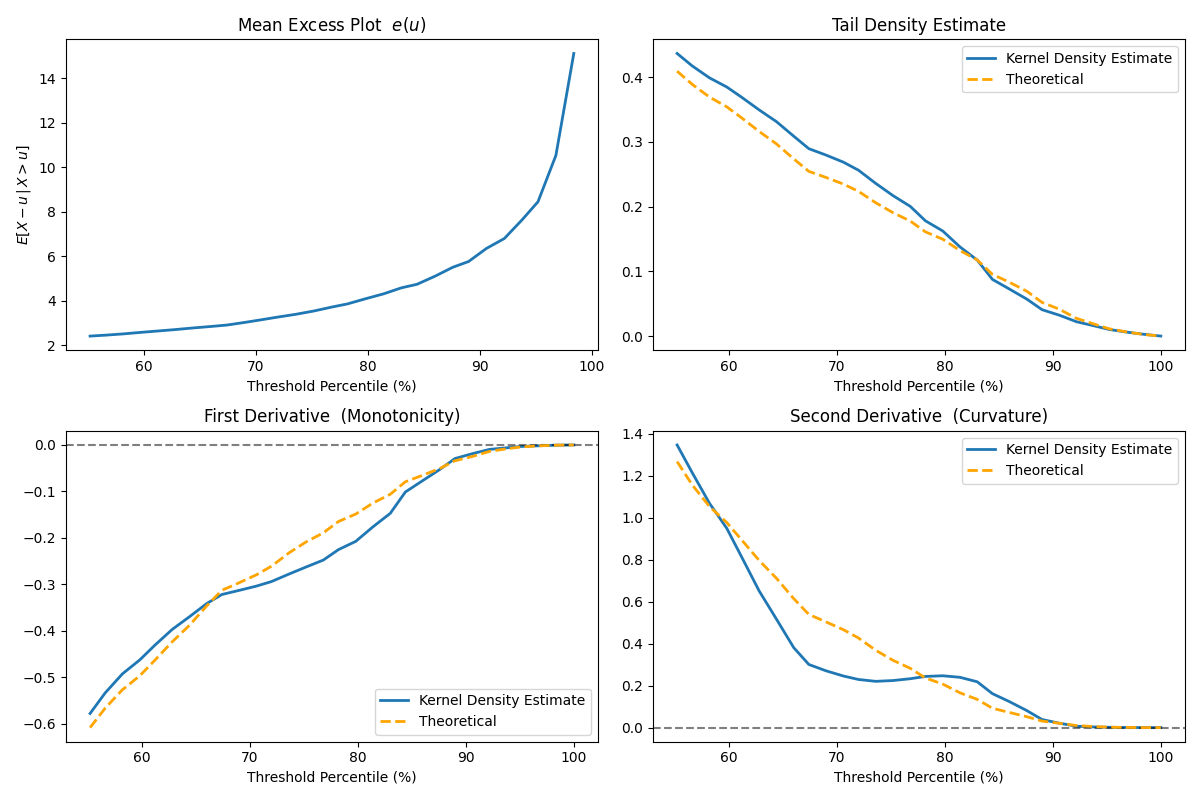
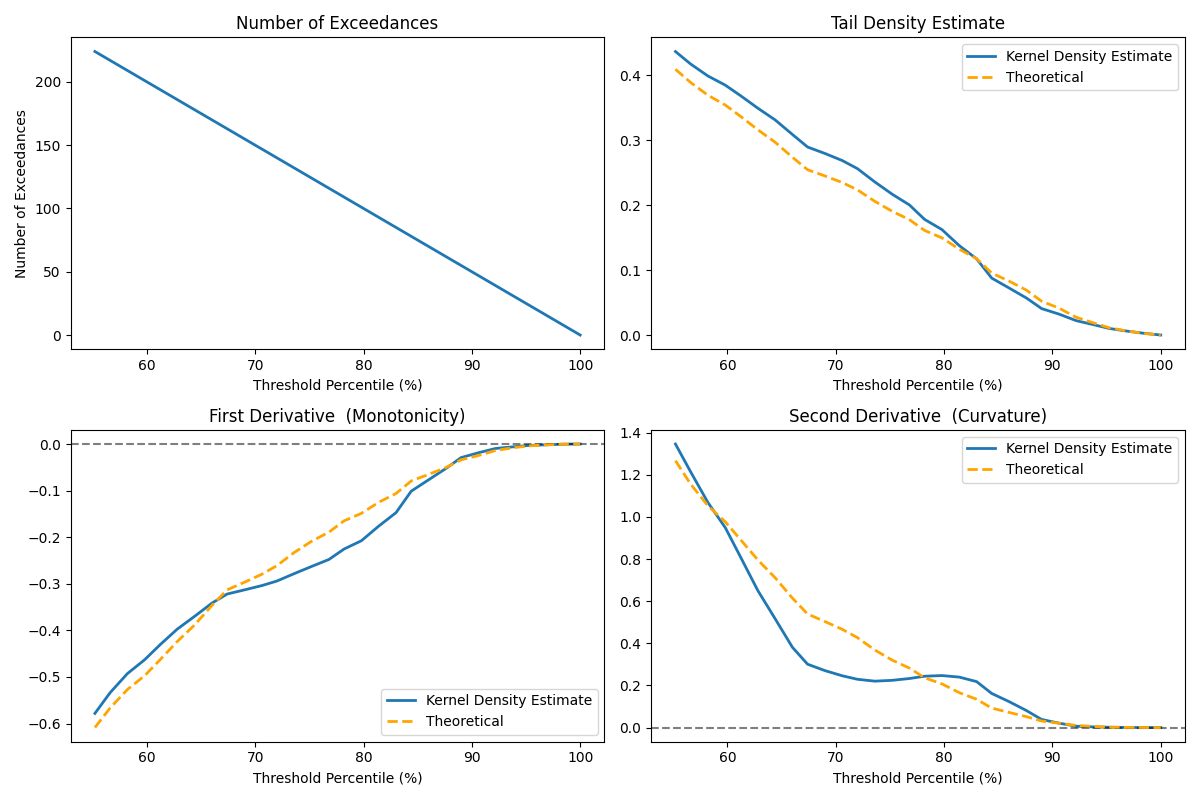
Update tail diagnostics. Add number of exceedance plots.

diff --git a/droevt/utils/tail_diagnostics.py b/droevt/utils/tail_diagnostics.py
@@ -26,10 +26,9 @@ qualitative features consistent with the modeling assumptions.
 
 In particular, the module implements:
 
-1. The *mean-excess function*
-   $e(u) = E[X - u | X > u]$
-   whose approximate linearity is a classical indicator of generalized
-   Pareto-type tail behavior.
+1. The *number of exceedances* above each candidate threshold, which helps
+   assess whether there are sufficient data points above the threshold for
+   reliable estimation and calibration.
 
 2. A *kernel density estimate* of the empirical tail, together with smoothed
    estimates of its
@@ -51,7 +50,7 @@ The user supplies:
 
 The diagnostics help identify the *smallest* threshold beyond which:
 
-    (i)  the mean-excess function becomes approximately linear
+    (i)  there are sufficient exceedances for reliable estimation
     (ii) the estimated density is smoothly decreasing
     (iii) the curvature stabilizes and no longer exhibits strong irregularity.
 
@@ -492,9 +491,8 @@ def plot_tail_diagnostics(
     dict
         Dictionary containing:
             - 'thresholds': candidate_thresholds,
-            - 'mean_excess': mean excess evaluated at thresholds,
+            - 'num_exceedances': number of exceedances at each threshold,
             - 'density': smoothed KDE density values,
-            - 'density_s': smoothed KDE density values,
             - 'first_derivative': smoothed first derivative of KDE,
             - 'second_derivative': smoothed second derivative of KDE.
     """
@@ -513,7 +511,8 @@ def plot_tail_diagnostics(
     indices = tail_start + np.array(indices)
 
     # ====== Compute objects ======
-    me_vals = mean_excess(x, candidate_thresholds)
+    # Compute number of exceedances for each threshold
+    num_exceedances = np.array([np.sum(x > threshold) for threshold in candidate_thresholds])
     _, density, first_derivative, second_derivative = tail_density_and_derivatives(x, candidate_thresholds)
 
     plot_theoretical_density = False
@@ -543,11 +542,11 @@ def plot_tail_diagnostics(
     fig, axs = plt.subplots(2, 2, figsize=(12, 8))
     ax_me, ax_pdf, ax_d1, ax_d2 = axs.flatten()
 
-    # --- 1. Mean Excess Plot ---
-    ax_me.plot(threshold_percentages, me_vals, lw=2)
-    ax_me.set_title("Mean Excess Plot  $e(u)$")
+    # --- 1. Number of Exceedances ---
+    ax_me.plot(threshold_percentages, num_exceedances, lw=2)
+    ax_me.set_title("Number of Exceedances")
     ax_me.set_xlabel("Threshold Percentile (%)")
-    ax_me.set_ylabel("$E[X-u \\,|\\,X>u]$")
+    ax_me.set_ylabel("Number of Exceedances")
 
     # --- 2. Tail Density ---
     ax_pdf.plot(threshold_percentages, density, lw=2, label="Kernel Density Estimate")
@@ -602,7 +601,7 @@ def plot_tail_diagnostics(
                "fig": fig,
                "thresholds": candidate_thresholds,
                "threshold_percentages": threshold_percentages,
-               "mean_excess": me_vals,
+               "num_exceedances": num_exceedances,
                "density": density,
                "first_derivative": first_derivative,
                "second_derivative": second_derivative,

diff --git a/tail_threshold_diagnostics.md b/tail_threshold_diagnostics.md
@@ -19,13 +19,15 @@ To address this transparently, we provide a set of diagnostic tools ([drovt.util
 
 Given a dataset $x_1,\dots,x_n$, the module evaluates a grid of candidate thresholds and computes the following quantities.
 
-### Mean-Excess Function
+### Number of Exceedances
+
+For each candidate threshold $u$, we compute the number of data points exceeding $u$:
 
 $$
-e(u)=\mathbb{E}[X-u \mid X>u].
+N(u) = \sum_{i=1}^n \mathbb{I}(x_i > u).
 $$
 
-Approximate linearity of $e(u)$ is the classical indicator of generalized Pareto-type tail behavior.
+This diagnostic helps assess whether there are sufficient data points above the threshold for reliable estimation and calibration of the moment constraints.
 
 ### Tail Density Estimate and Derivatives
 
@@ -47,7 +49,7 @@ These plots allow the analyst to examine whether the tail behaves as theoretical
 
 ## How These Plots Are Used
 
-We recommend choosing the smallest threshold `a` such that:
+We recommend choosing a threshold `a` such that:
 
 1. the estimated tail density decays smoothly  
 2. the curvature stabilizes and no longer oscillates erratically  
@@ -108,11 +110,10 @@ choosing it too high reduces the amount of usable data.
 
 The diagnostics therefore provide complementary perspectives on tail stability:
 
-• The **mean-excess curve** shows how the expected overshoot behaves as the
-threshold increases. Although this plot has classical EVT roots, we do not
-use it to justify a generalized Pareto model. Instead, we treat it as an
-exploratory tool: when the curve transitions from unstable to qualitatively
-regular behaviour, this suggests the onset of a tail regime.
+• The **number of exceedances** shows how many data points remain above each
+candidate threshold. This helps ensure there are sufficient observations for
+reliable estimation and calibration of the moment constraints, while also
+indicating the effective sample size available for tail inference.
 
 • The **tail density estimate** indicates whether the right-tail becomes
 smoothly decreasing beyond a candidate threshold.
@@ -135,8 +136,8 @@ This marks the onset of the region where tail behaviour becomes structurally
 stable.
 
 In our empirical work, we therefore select the threshold `a` near the
-**70th percentile of the data**, representing the smallest value for which tail
-behaviour appears stable across all diagnostics. Choosing smaller thresholds
+**70th percentile of the data**, representing a value for which tail
+behaviour appears stable across all diagnostics. Choosing lower thresholds
 risks violating tail assumptions, while choosing much larger thresholds
 discards data and increases variance.
 
